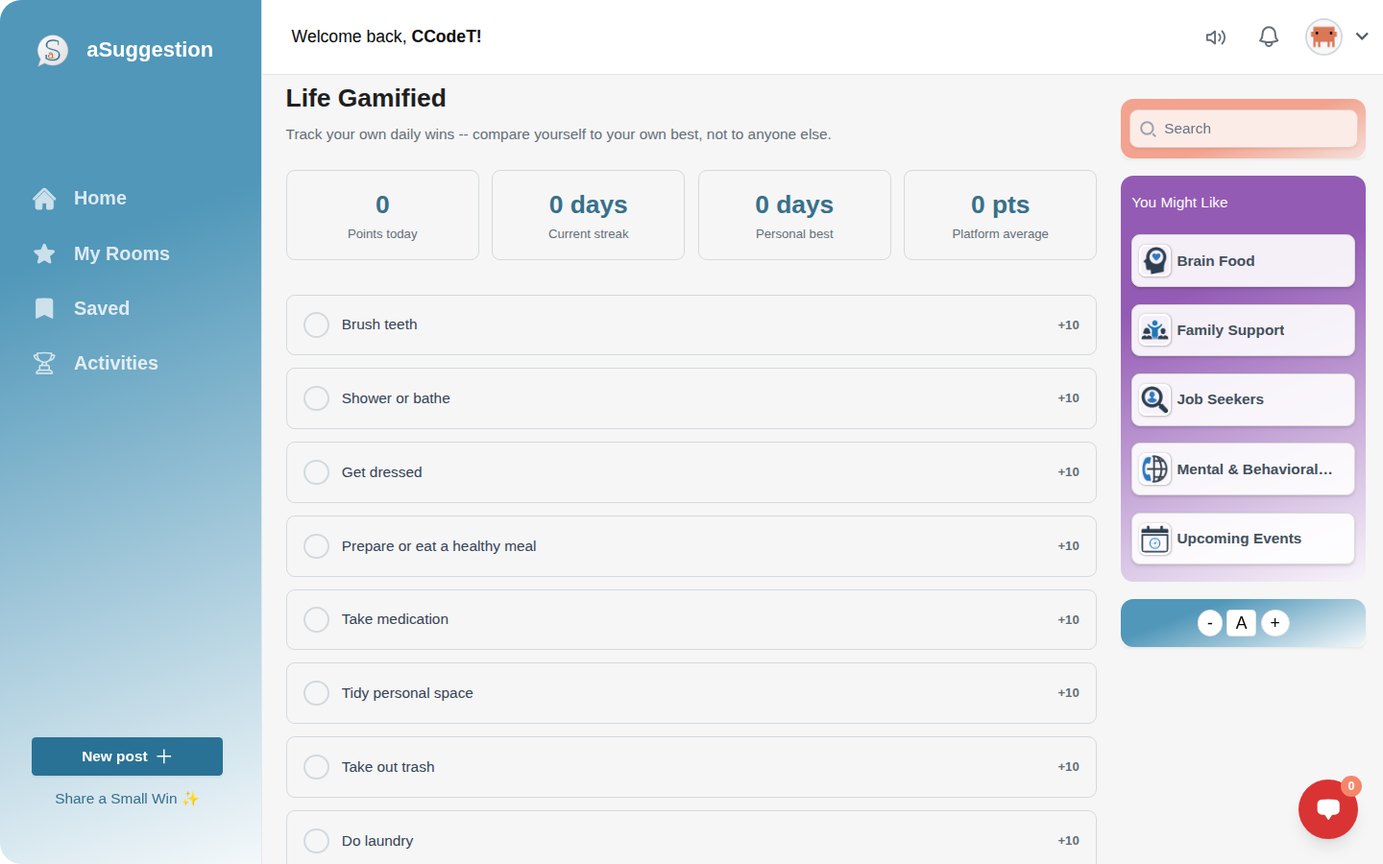
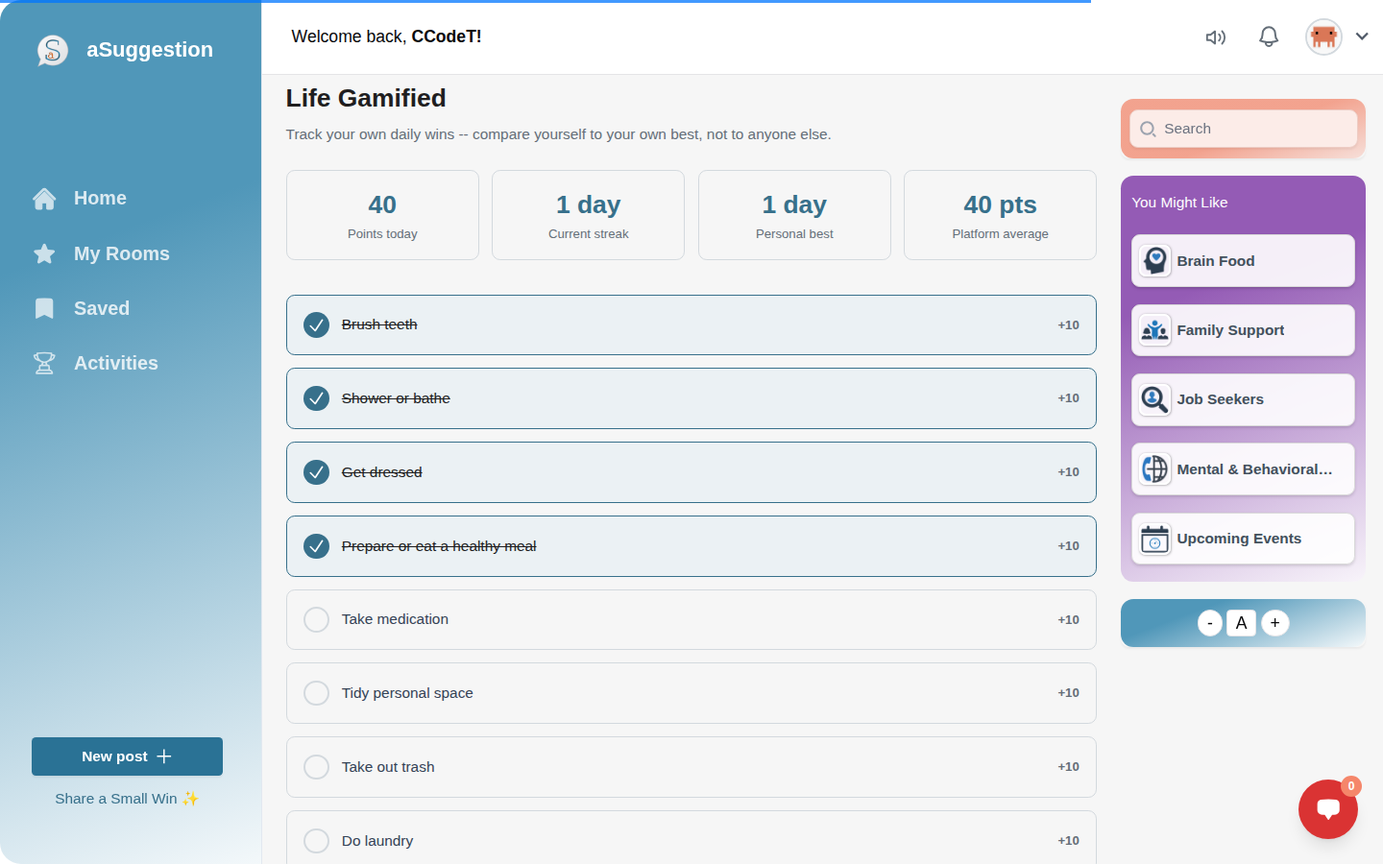
Address feedback round 1: style, terminology, and screenshot fixes
- Removed every sentence-connector em dash site-wide, rewritten as
  separate sentences or with commas/parentheses. Legitimate hyphenated
  compound words (de-identified, audit-ready, etc.) are untouched.
- Home page Welcome section restructured to address individuals/families
  first, then caregivers/agencies explicitly, and now uses "Digital
  Health Overlay" instead of "digital health ecosystem."
- community.html: "HCPs and Agency Leadership" -> "Care Professionals
  and Agency Leadership" (HCP is internal jargon).
- Re-captured Visit Trac: previous version was cropped to remove a real
  name, which squashed its aspect ratio in the tabbed showcase. Now
  hides the Past Visits section via DOM manipulation before capture
  instead, keeping the natural 1440x900 canvas so it matches the other
  tabs visually.
- Re-captured Social Rooms: previous screenshot showed a single feed
  post with an unloaded video embed. Now shows the actual Social Rooms
  tab with real room categories (Arts & Hobbies, Brain Food, Career
  Coaching, Family Support, etc.).
- Re-captured Life Gamified with real checked-off items on the test
  account (40 pts, 1 day streak) instead of an all-zero blank state.
- Re-captured Wellbeing Dashboard with richer mock activity numbers in
  addition to the already-fictional names, so it reads as a live
  dashboard rather than a mostly-empty one.
- New showcase-activities.png + new 7th About-page tour tab: the
[…]

diff --git a/about.html b/about.html
@@ -102,17 +102,17 @@
             <div class="mt-6 space-y-5 text-base leading-8 text-slate-700">
               <p class="font-semibold text-lg text-brand-navy">We get it.</p>
               <p>Navigating the world with Autism (ASD), an Intellectual or Developmental Disability (I/DD), or other mental health challenges can feel... complicated. Whether you're an individual looking for connection, a family member seeking answers, or a caregiver trying to find the best resources, it's easy to feel isolated.</p>
-              <p>You're looking for a place to connect, to share, and to learn — without fear of judgment. A place where you can be yourself and find people who truly understand.</p>
+              <p>You're looking for a place to connect, to share, and to learn, without fear of judgment. A place where you can be yourself and find people who truly understand.</p>
               <p class="font-semibold text-brand-navy">That's why we built aSuggestion for Wellness &amp; Care.</p>
               <p>We're not just another social media app. We are a private digital community built from the ground up with one mission: to provide a safe, supportive, and truly helpful ecosystem for you, your family, and your entire care team.</p>
               <ul class="space-y-4 pl-2">
                 <li class="flex gap-3">
                   <span style="color:rgb(0,153,204);" class="font-extrabold shrink-0 mt-1">&#x2022;</span>
-                  <span><strong>Safety is Everything:</strong> This is our number one promise. Our community is a "predator-free" zone. We use a powerful combination of trained human moderators and smart AI to ensure every conversation is respectful, constructive, and safe — and we test that AI moderation every single week to make sure it never quietly stops working.</span>
+                  <span><strong>Safety is Everything:</strong> This is our number one promise. Our community is a "predator-free" zone. We use a powerful combination of trained human moderators and smart AI to ensure every conversation is respectful, constructive, and safe. We also test that AI moderation every single week to make sure it never quietly stops working.</span>
                 </li>
                 <li class="flex gap-3">
                   <span style="color:rgb(0,153,204);" class="font-extrabold shrink-0 mt-1">&#x2022;</span>
-                  <span><strong>Privacy Built In, Not Bolted On:</strong> For every piece of field data a care team captures — visit records, activity logs, exports — we designed the system from the ground up to avoid storing addresses or protected health information at all. People are represented by a permanent, de-identified ID, never a name, in every report and export.</span>
+                  <span><strong>Privacy Built In, Not Bolted On:</strong> For every piece of field data a care team captures, including visit records, activity logs, and exports, we designed the system from the ground up to avoid storing addresses or protected health information at all. People are represented by a permanent, de-identified ID, never a name, in every report and export.</span>
                 </li>
                 <li class="flex gap-3">
                   <span style="color:rgb(0,153,204);" class="font-extrabold shrink-0 mt-1">&#x2022;</span>
@@ -120,7 +120,7 @@
                 </li>
                 <li class="flex gap-3">
                   <span style="color:rgb(0,153,204);" class="font-extrabold shrink-0 mt-1">&#x2022;</span>
-                  <span><strong>Learn and Grow, Actively:</strong> Our tools don't just play videos at you. Interactive AI cooking guides, storytelling, coloring, and daily-living checklists turn learning into something you actually do — with matching tools for caregivers to document and support that growth.</span>
+                  <span><strong>Learn and Grow, Actively:</strong> Our tools don't just play videos at you. Interactive AI cooking guides, storytelling, coloring, and daily living checklists turn learning into something you actually do, with matching tools for caregivers to document and support that growth.</span>
                 </li>
                 <li class="flex gap-3">
                   <span style="color:rgb(0,153,204);" class="font-extrabold shrink-0 mt-1">&#x2022;</span>
@@ -147,7 +147,7 @@
                 <p class="text-sm font-extrabold uppercase tracking-[0.25em]" style="color:#000;">What We Protect</p>
                 <div class="mt-5 grid gap-4 text-sm leading-7 sm:grid-cols-2 sm:text-base">
                   <div class="rounded-2xl p-4 font-bold lift-card" style="background:rgba(0,153,204,0.1);color:#000;">Psychological safety in conversation.</div>
-                  <div class="rounded-2xl p-4 font-bold lift-card" style="background:rgba(255,255,255,0.8);color:#000;">Personal data — de-identified IDs, not names, in every export.</div>
+                  <div class="rounded-2xl p-4 font-bold lift-card" style="background:rgba(255,255,255,0.8);color:#000;">Personal data protected by de-identified IDs, not names, in every export.</div>
                   <div class="rounded-2xl p-4 font-bold lift-card" style="background:rgba(255,255,255,0.8);color:#000;">Inclusion for different abilities and experiences.</div>
                   <div class="rounded-2xl p-4 font-bold lift-card" style="background:rgba(255,102,0,0.1);color:#000;">A better balance between technology and compassion.</div>
                 </div>
@@ -203,7 +203,7 @@
       <section class="px-6 py-16 lg:px-12" aria-labelledby="tour-title">
         <p class="text-sm font-bold uppercase tracking-[0.25em]" style="color:rgb(255,140,50);">See It In Action</p>
         <h2 id="tour-title" class="mt-3 text-3xl font-extrabold text-brand-navy md:text-4xl">A quick tour of the platform</h2>
-        <p class="mt-4 max-w-2xl text-base text-slate-600">Real screens from the real product — for the people who use it every day, and the care teams who support them.</p>
+        <p class="mt-4 max-w-2xl text-base text-slate-600">Real screens from the real product, for the people who use it every day, and the care teams who support them.</p>
 
         <div class="mt-8 tour-tabs" role="tablist" aria-label="Platform feature tour" id="tour-tabs"></div>
 
@@ -237,22 +237,25 @@
     // ── Platform Tour (tabbed showcase) ────────────────────────────────────
     var tourTabs = [
       { label: 'Social Rooms', track: 'For Individuals & Families', title: 'Vibrant, moderated social rooms',
-        desc: 'Themed spaces where people connect over shared hobbies and interests — every conversation reviewed by AI moderation, backed by trained human oversight.',
+        desc: 'Themed spaces where people connect over shared hobbies and interests. Every conversation is reviewed by AI moderation, backed by trained human oversight.',
         img: 'assets/images/showcase/showcase-social-rooms.png' },
       { label: 'Life Gamified', track: 'For Individuals & Families', title: 'Daily living skills, made motivating',
-        desc: 'Simple checklists turn everyday routines — hygiene, meals, chores — into small, trackable wins. You compete only against your own best, never anyone else.',
+        desc: 'Simple checklists turn everyday routines like hygiene, meals, and chores into small, trackable wins. You compete only against your own best, never anyone else.',
         img: 'assets/images/showcase/showcase-life-gamified.png' },
       { label: 'AI Cooking', track: 'For Individuals & Families', title: 'Simple, safety-screened recipes on demand',
-        desc: 'Ask for a recipe idea and get something genuinely simple and safe to make — a fun, guided way to build real kitchen confidence.',
+        desc: 'Ask for a recipe idea and get something genuinely simple and safe to make. It is a fun, guided way to build real kitchen confidence.',
         img: 'assets/images/showcase/showcase-ai-cooking.png' },
+      { label: 'Activities', track: 'For Individuals & Families', title: 'A full library of activities and curated videos',
+        desc: 'Games, guided crafts, cooking, stress relief, and a curated video library shared by your organization and the wider community, all in one place.',
+        img: 'assets/images/showcase/showcase-activities.png' },
       { label: 'Guided Notes', track: 'For Organizations & Care Teams', title: 'Structured, audit-ready documentation',
-        desc: 'Built for how shift documentation actually happens — structured fields for service type, presentation, and progress, not a blank text box.',
+        desc: 'Built for how shift documentation actually happens, with structured fields for service type, presentation, and progress instead of a blank text box.',
         img: 'assets/images/showcase/showcase-guided-notes.png' },
       { label: 'Visit Trac', track: 'For Organizations & Care Teams', title: 'Audit-ready visit documentation',
-        desc: 'Captures the data elements required under the 21st Century Cures Act for a billable visit — without ever storing a home address or protected health information.',
+        desc: 'Captures the data elements required under the 21st Century Cures Act for a billable visit, without ever storing a home address or protected health information.',
         img: 'assets/images/showcase/showcase-visit-trac.png' },
       { label: 'Wellbeing Dashboard', track: 'For Organizations & Care Teams', title: 'Real-time engagement and wellbeing insight',
-        desc: 'A live view into activity trends across everyone a care team supports — so a quiet drop-off in engagement never goes unnoticed.',
+        desc: 'A live view into activity trends across everyone a care team supports, so a quiet drop-off in engagement never goes unnoticed.',
         img: 'assets/images/showcase/showcase-wellbeing-dashboard.png' }
     ];
 

diff --git a/index.html b/index.html
@@ -124,7 +124,7 @@
             <span class="block">navigate the world with confidence</span>
           </h1>
           <p class="mt-6 max-w-2xl text-base font-bold text-white md:text-lg" style="text-shadow:0 1px 6px rgba(0,0,0,0.8);">
-            A safe and supportive space for individuals, families, and caregivers to learn, connect, and grow — with the audit-ready tools care teams and agencies need, built right in.
+            A safe and supportive space for individuals, families, and caregivers to learn, connect, and grow, with the audit-ready tools care teams and agencies need, built right in.
           </p>
           <div class="mt-8 flex flex-wrap gap-3">
             <a href="community.html" class="rounded-full bg-white px-6 py-3 text-sm font-bold text-brand-navy hover:bg-slate-100 transition-colors">Explore Community</a>
@@ -139,11 +139,11 @@
         <h2 class="text-3xl font-extrabold text-brand-navy md:text-4xl">
           Welcome to <span class="text-brand-orange">a</span><span class="text-brand-blue">Suggestion</span> for Wellness &amp; Care
         </h2>
-        <p class="mt-4 text-lg font-semibold text-slate-500 italic">A digital community where connection, growth, and support come together.</p>
+        <p class="mt-4 text-lg font-semibold text-slate-500 italic">A Digital Health Overlay where connection, growth, and support come together.</p>
         <div class="mt-6 grid gap-6 text-base leading-8 text-slate-700 lg:grid-cols-2 lg:text-lg">
-          <p>At aSuggestion, we believe that everyone deserves access to meaningful connection, personal development, and emotional support. Our platform is built for individuals with autism, intellectual and developmental disabilities, mental and behavioral health challenges, and other forms of neurodiversity. It also provides powerful tools for families, caregivers, and professionals who support them.</p>
-          <p>This is more than just another social media platform. aSuggestion is a digital health ecosystem that blends social engagement with structured learning and practical resources. Here, you can connect with others, share experiences, explore interests, and enjoy a safe, welcoming space designed for positivity and inclusion.</p>
-          <p>For those seeking personal growth, the platform offers videos, activities, and guides focused on building essential life skills such as communication, job readiness, emotional regulation, and daily living. Families and caregivers can access educational materials, community discussions, and tips on delivering effective and compassionate care.</p>
+          <p>At aSuggestion, we believe that everyone deserves access to meaningful connection, personal development, and emotional support. If you're an individual with autism, an intellectual or developmental disability, a mental or behavioral health challenge, or another form of neurodiversity, this is your space to connect, share, explore interests, and grow, safely and without judgment. Families get the same welcoming environment, plus tools to stay informed and involved in what matters most.</p>
+          <p>This is more than just another social media platform. aSuggestion is a Digital Health Overlay that blends real social engagement with structured learning and practical resources, built alongside the systems agencies already use, not in place of them. For caregivers and care teams, that means practical, audit-ready tools for the realities of daily care. For agency leadership, it means real visibility into engagement and outcomes across everyone you support.</p>
+          <p>For those seeking personal growth, the platform offers interactive activities and guides focused on building essential life skills such as communication, job readiness, emotional regulation, and daily living. Families, caregivers, and agencies can access educational materials, community discussions, structured documentation tools, and de-identified reporting built for the way care actually happens.</p>
           <p>Behind the scenes, our AI and moderation tools work constantly to maintain a safe environment, providing gentle guidance and structure that helps everyone stay supported and engaged.</p>
         </div>
         <p class="mt-6 text-xl font-semibold text-brand-orange">aSuggestion is more than a platform. It is a community that helps people learn, connect, and grow together.</p>
@@ -154,7 +154,7 @@
         <div class="mb-8">
           <p class="text-sm font-bold uppercase tracking-[0.25em]" style="color:rgb(0,153,204);">For Organizations &amp; Care Teams</p>
           <h2 class="mt-2 text-3xl font-extrabold text-brand-navy md:text-4xl">The audit-ready toolset your care team already needs</h2>
-          <p class="mt-4 max-w-3xl text-base leading-8 text-slate-600">aSuggestion isn't only a community for the people you support — it's a standalone set of field tools for the staff who support them, built alongside your existing systems, not in place of them.</p>
+          <p class="mt-4 max-w-3xl text-base leading-8 text-slate-600">aSuggestion isn't only a community for the people you support. It's also a standalone set of field tools for the staff who support them, built alongside your existing systems, not in place of them.</p>
         </div>
         <div class="grid gap-5 sm:grid-cols-2 lg:grid-cols-3">
 
@@ -162,7 +162,7 @@
             <img class="gallery-img-top" src="assets/images/showcase/showcase-guided-notes.png" alt="Guided Notes" loading="lazy" />
             <div class="gallery-overlay">
               <p class="gallery-title">Guided Notes</p>
-              <p class="gallery-desc">Structured, audit-ready service documentation built for real shift workflows — not a blank text box.</p>
+              <p class="gallery-desc">Structured, audit-ready service documentation built for real shift workflows, not a blank text box.</p>
             </div>
           </div>
 
@@ -170,7 +170,7 @@
             <img class="gallery-img-top" src="assets/images/showcase/showcase-visit-trac.png" alt="Visit Trac" loading="lazy" />
             <div class="gallery-overlay">
               <p class="gallery-title">Visit Trac</p>
-              <p class="gallery-desc">Audit-ready visit documentation capturing the data elements required under the 21st Century Cures Act — no addresses or PHI stored.</p>
+              <p class="gallery-desc">Audit-ready visit documentation capturing the data elements required under the 21st Century Cures Act, with no addresses or PHI stored.</p>
             </div>
           </div>
 
@@ -195,7 +195,7 @@
           </div>
           <div class="rounded-[1.5rem] bg-white p-5 shadow-sm ring-1 ring-slate-100 lift-card">
             <h3 class="text-base font-bold text-brand-navy">De-Identified Exports</h3>
-            <p class="mt-2 text-sm leading-7 text-slate-600">CSV and PDF exports built around permanent, de-identified IDs — never real names — from day one.</p>
+            <p class="mt-2 text-sm leading-7 text-slate-600">CSV and PDF exports built around permanent, de-identified IDs instead of real names, from day one.</p>
           </div>
         </div>
 
@@ -224,7 +224,7 @@
             <img src="assets/images/49e19b56-7909-431d-bdd9-ebecd9a38a5a.jpeg" alt="Learning and Skill Building" loading="lazy" />
             <div class="gallery-overlay">
               <p class="gallery-title">Interactive Learning, Not Just Videos</p>
-              <p class="gallery-desc">AI-guided cooking, storytelling, and coloring turn daily living skills into active, hands-on practice — not passive watching.</p>
+              <p class="gallery-desc">AI-guided cooking, storytelling, and coloring turn daily living skills into active, hands-on practice instead of passive watching.</p>
             </div>
           </div>
 

diff --git a/community.html b/community.html
@@ -69,7 +69,7 @@
                 <h3 class="mt-3 text-2xl font-extrabold text-brand-navy sm:text-3xl">Individuals dealing with IDD</h3>
                 <div class="mt-5 space-y-4 text-sm leading-8 text-slate-700 sm:text-base">
                   <p>IDD stands for Intellectual and Developmental Disabilities, which means you might learn or do some things differently from others, and that's completely okay. Everyone grows and develops at their own pace, and having IDD simply means you may need more support in areas such as learning, communicating, or completing everyday tasks.</p>
-                  <p>Taking care of yourself is important. Following a daily routine can make life feel easier and less stressful, while eating healthy foods and staying active helps you feel better overall. Try doing tasks on your own when possible, but remember it's always okay to ask for help. Our Life Gamified checklists turn routines like these into small, trackable wins — you're only ever competing against your own best.</p>
+                  <p>Taking care of yourself is important. Following a daily routine can make life feel easier and less stressful, while eating healthy foods and staying active helps you feel better overall. Try doing tasks on your own when possible, but remember it's always okay to ask for help. Our Life Gamified checklists turn routines like these into small, trackable wins, since you're only ever competing against your own best.</p>
                   <p>With patience and practice, you can become more confident in your abilities. Focus on your strengths and use them to overcome challenges. Join a themed social room to connect with others who get it, or ask our AI cooking and storytelling tools for a fun, guided way to practice something new. Each step you take, no matter how small, brings you closer to living a happier and more independent life.</p>
                 </div>
               </div>
@@ -97,7 +97,7 @@
                 <h3 class="mt-3 text-2xl font-extrabold text-brand-navy sm:text-3xl">Caregivers</h3>
                 <div class="mt-5 space-y-4 text-sm leading-8 text-slate-700 sm:text-base">
                   <p>As a caregiver for someone with an Intellectual and Developmental Disability, your role is deeply important and uniquely demanding. It can bring moments of reward, joy, and connection, but it can also feel challenging and overwhelming. Establishing a consistent routine is one of the most effective ways to create structure and reduce stress.</p>
-                  <p>Supporting healthy living is another essential part of caregiving. This includes nutritious meals, regular physical activity, good sleep, and attention to emotional well-being. Staying on top of medical and therapy care is also crucial — Guided Notes give you structured, audit-ready shift documentation built around how care actually happens, so paperwork stops eating into time you'd rather spend on care itself.</p>
+                  <p>Supporting healthy living is another essential part of caregiving. This includes nutritious meals, regular physical activity, good sleep, and attention to emotional well-being. Staying on top of medical and therapy care is also crucial. Guided Notes give you structured, audit-ready shift documentation built around how care actually happens, so paperwork stops eating into time you'd rather spend on care itself.</p>
                   <p>Clear and accessible communication matters, whether through visuals, gestures, simple words, or assistive devices. Practicing patience and empathy throughout the journey helps ensure that progress is met with encouragement rather than judgment. A quick Check-In Chat is always one click away when you need to loop in the rest of the care team.</p>
                 </div>
               </div>
@@ -109,11 +109,11 @@
               <div class="order-2 h-full min-h-[280px] bg-slate-100 lg:order-1"><img src="assets/images/showcase/showcase-wellbeing-dashboard.png" alt="Wellbeing Dashboard" class="h-full w-full object-cover object-top" loading="lazy" /></div>
               <div class="order-1 p-6 sm:p-8 lg:order-2">
                 <p class="text-sm font-bold uppercase tracking-[0.25em]" style="color:rgb(255,140,50);">Support Track</p>
-                <h3 class="mt-3 text-2xl font-extrabold text-brand-navy sm:text-3xl">HCPs and Agency Leadership</h3>
+                <h3 class="mt-3 text-2xl font-extrabold text-brand-navy sm:text-3xl">Care Professionals and Agency Leadership</h3>
                 <div class="mt-5 space-y-4 text-sm leading-8 text-slate-700 sm:text-base">
-                  <p>Overseeing a program or a caseload means balancing real human connection with real documentation and compliance demands — and the two shouldn't fight each other. The Wellbeing Dashboard gives you a live view of engagement trends across everyone your team supports, so a quiet drop-off never goes unnoticed.</p>
+                  <p>Overseeing a program or a caseload means balancing real human connection with real documentation and compliance demands, and the two shouldn't fight each other. The Wellbeing Dashboard gives you a live view of engagement trends across everyone your team supports, so a quiet drop-off never goes unnoticed.</p>
                   <p>Visit Trac captures the data elements required under the 21st Century Cures Act for a billable visit, without ever storing an address or protected health information. Person Centered Goals maps daily activity directly to a curated 100-item goal library, so progress is visible, not just assumed.</p>
-                  <p>Every export — CSV or PDF — is built around permanent, de-identified IDs from day one, so field data can move where it needs to without ever putting a real name on the page.</p>
+                  <p>Every export, whether CSV or PDF, is built around permanent, de-identified IDs from day one, so field data can move where it needs to without ever putting a real name on the page.</p>
                 </div>
               </div>
             </div>

diff --git a/payment.html b/payment.html
@@ -3,7 +3,7 @@
 <head>
   <meta charset="UTF-8" />
   <meta name="viewport" content="width=device-width, initial-scale=1.0" />
-  <meta name="description" content="Register for aSuggestion — a safe, supportive digital community for individuals, families, and caregivers." />
+  <meta name="description" content="Register for aSuggestion, a safe, supportive digital community for individuals, families, and caregivers." />
   <link rel="icon" type="image/png" href="/assets/images/favicon.png?v=2"> 
   <title>aSuggestion – Registration</title>
   <link rel="stylesheet" href="/assets/css/tailwind.css">
@@ -80,7 +80,7 @@
           registration. If you're an agency, day program, or care team looking to bring aSuggestion's
           organizational tools to your staff, please
           <a href="contact.html" style="color:rgb(0,153,204);text-decoration:underline;">reach out through our Contact page</a>
-          instead — we'll set things up properly for your team.
+          instead. We'll set things up properly for your team.
         </div>
 
         <!-- How it works notice -->
@@ -135,11 +135,11 @@
           </div>
           <div class="field-group two-col">
             <div class="field">
-              <label for="guardian-phone">Phone — Parent or Guardian</label>
+              <label for="guardian-phone">Phone (Parent or Guardian)</label>
               <input id="guardian-phone" type="tel" name="guardian_phone" autocomplete="tel" placeholder="(000) 000-0000" />
             </div>
             <div class="field">
-              <label for="guardian-email">Email — Parent or Guardian</label>
+              <label for="guardian-email">Email (Parent or Guardian)</label>
               <input id="guardian-email" type="email" name="guardian_email" autocomplete="email" placeholder="guardian@email.com" />
             </div>
           </div>
@@ -161,11 +161,11 @@
           </div>
           <div class="field-group two-col">
             <div class="field">
-              <label for="care-email">Email — Care Team</label>
+              <label for="care-email">Email (Care Team)</label>
               <input id="care-email" type="email" name="care_email" autocomplete="email" placeholder="careteam@email.com" />
             </div>
             <div class="field">
-              <label for="care-phone">Phone — Care Team</label>
+              <label for="care-phone">Phone (Care Team)</label>
               <input id="care-phone" type="tel" name="care_phone" autocomplete="tel" placeholder="(000) 000-0000" />
             </div>
           </div>
@@ -173,7 +173,7 @@
           <div class="checkbox-group">
             <input id="contact-care-approved" type="checkbox" name="contact_care" value="Approved" required />
             <label for="contact-care-approved">
-              <strong>Approved</strong> — I acknowledge that a member of the aSuggestion team may reach out to my Care Team to verify my application and ensure a safe and predator-free environment.
+              <strong>Approved:</strong> I acknowledge that a member of the aSuggestion team may reach out to my Care Team to verify my application and ensure a safe and predator-free environment.
             </label>
           </div>
 
